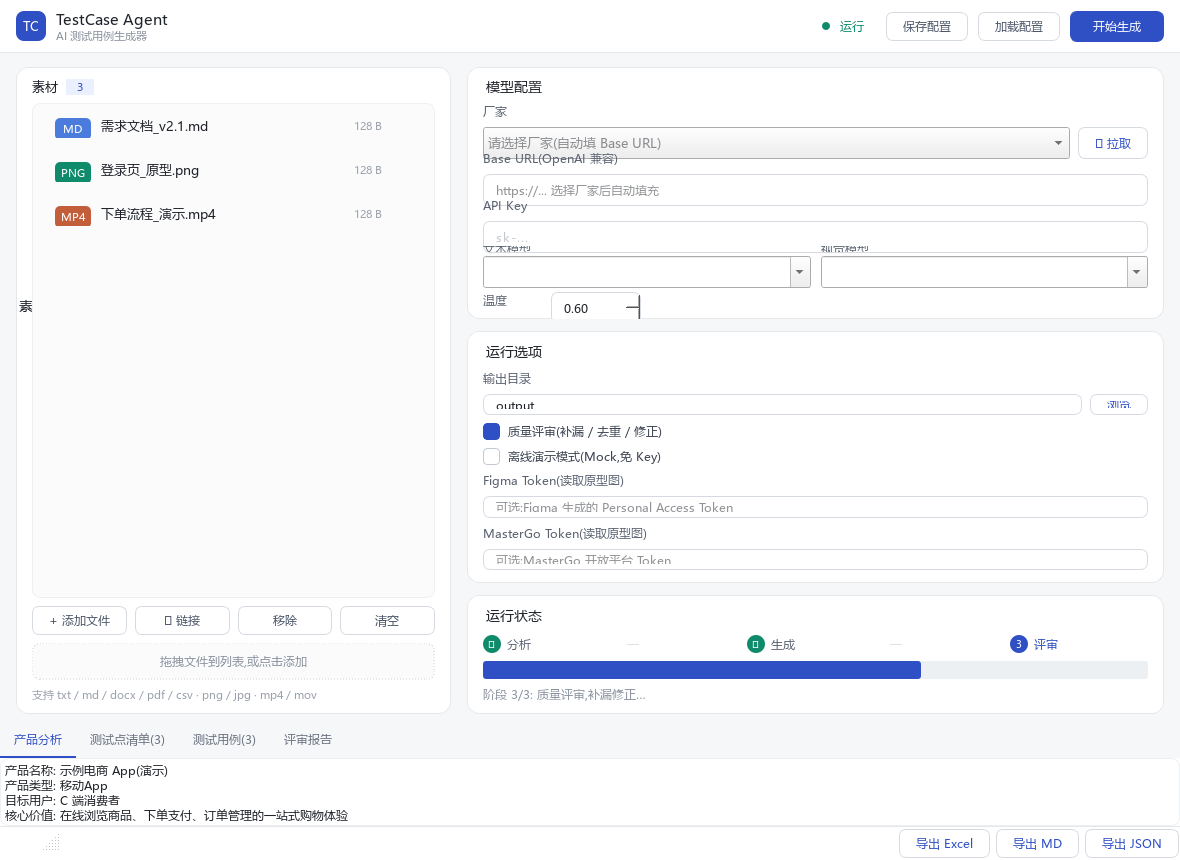
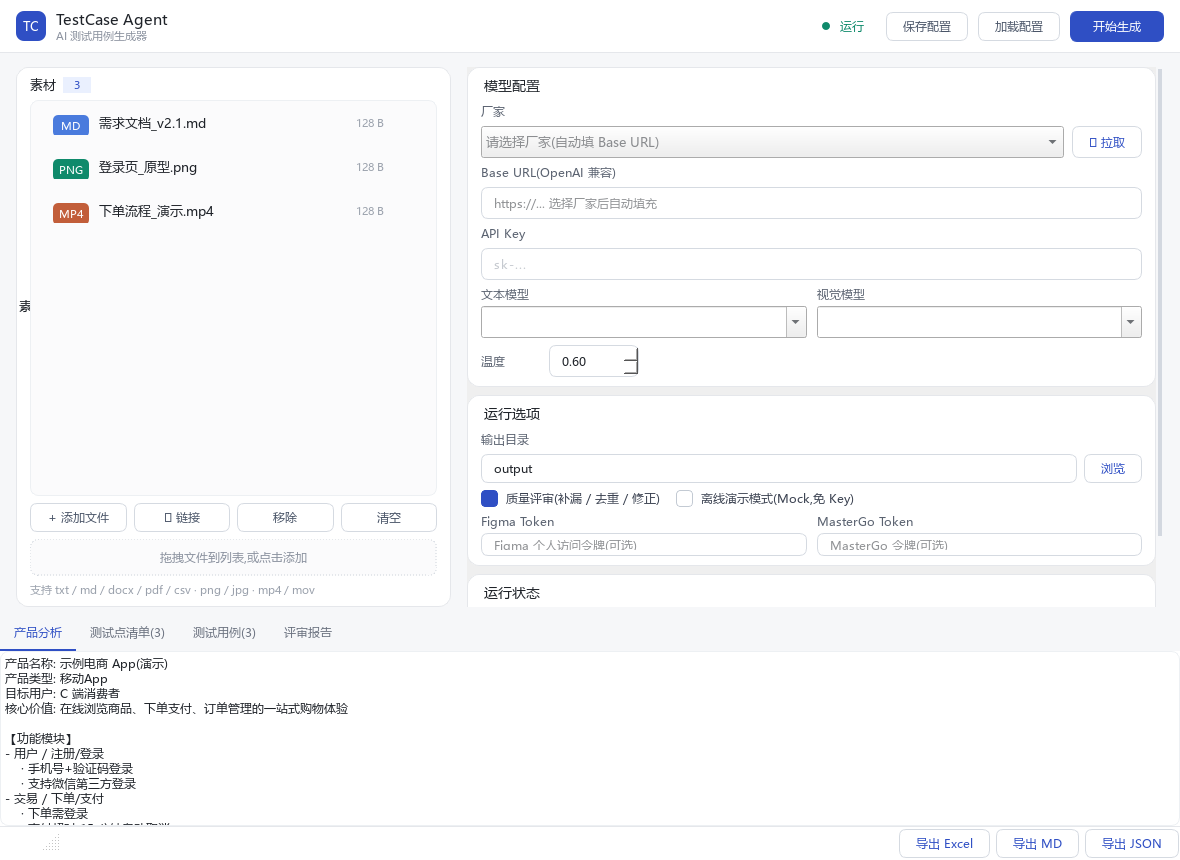
feat:优化右侧面板布局防遮挡
- 右列(模型配置/运行选项/运行状态)包裹 QScrollArea:内容超出时可滚动,任何屏幕尺寸不遮挡
- 布局紧凑化:质量评审/Mock 复选框并排;Figma/MasterGo Token 并排;温度与拉取提示合并一行
- 调整 body/tabs 高度权重(8:3),配置区优先占高;卡片 margins/spacing 微调
- 1320x920 默认窗口下右列全部可见,无滚动条;67 测试通过

diff --git a/testcase_agent/gui/app.py b/testcase_agent/gui/app.py
@@ -20,9 +20,10 @@ from PySide6.QtCore import QSize, Qt, Signal
 from PySide6.QtGui import QColor, QFont
 from PySide6.QtWidgets import (
     QAbstractItemView, QApplication, QCheckBox, QComboBox, QDoubleSpinBox, QFileDialog,
-    QHBoxLayout, QHeaderView, QInputDialog, QLabel, QLineEdit, QListWidget, QListWidgetItem,
-    QMainWindow, QMessageBox, QPlainTextEdit, QProgressBar, QPushButton, QStatusBar,
-    QTableWidget, QTableWidgetItem, QTabWidget, QVBoxLayout, QWidget,
+    QFrame, QHBoxLayout, QHeaderView, QInputDialog, QLabel, QLineEdit, QListWidget,
+    QListWidgetItem, QMainWindow, QMessageBox, QPlainTextEdit, QProgressBar, QPushButton,
+    QScrollArea, QStatusBar, QTableWidget, QTableWidgetItem, QTabWidget, QVBoxLayout,
+    QWidget,
 )
 
 # 国内主流 OpenAI 兼容厂家(联动 base_url / 文本模型 / 视觉模型)
@@ -271,8 +272,8 @@ def _card(title: str) -> tuple[QWidget, QVBoxLayout]:
     w = QWidget()
     w.setObjectName("Card")
     lay = QVBoxLayout(w)
-    lay.setContentsMargins(16, 12, 16, 12)
-    lay.setSpacing(8)
+    lay.setContentsMargins(14, 10, 14, 10)
+    lay.setSpacing(7)
     t = QLabel(title)
     t.setObjectName("CardTitle")
     t.setStyleSheet("font-size:14px;font-weight:600;color:#1F2329;margin-bottom:2px;")
@@ -314,8 +315,9 @@ class MainWindow(QMainWindow):
         body_lay.setSpacing(16)
         body_lay.addWidget(self._build_left_panel(), 5)
         body_lay.addWidget(self._build_right_panel(), 8)
-        root.addWidget(body, 4)
-        root.addWidget(self._build_tabs(), 5)
+        # 配置区(body)优先占高度,结果区(tabs)生成前较小
+        root.addWidget(body, 8)
+        root.addWidget(self._build_tabs(), 3)
         self.setStatusBar(QStatusBar())
 
         self.setStyleSheet(QSS)
@@ -414,10 +416,17 @@ class MainWindow(QMainWindow):
         return card
 
     def _build_right_panel(self) -> QWidget:
+        # 外层滚动容器:内容超出窗口高度时可滚动,保证任何屏幕尺寸都不遮挡
+        scroll = QScrollArea()
+        scroll.setWidgetResizable(True)
+        scroll.setFrameShape(QFrame.Shape.NoFrame)
+        scroll.setHorizontalScrollBarPolicy(Qt.ScrollBarPolicy.ScrollBarAlwaysOff)
+        scroll.setMinimumWidth(400)
+
         panel = QWidget()
         lay = QVBoxLayout(panel)
         lay.setContentsMargins(0, 0, 0, 0)
-        lay.setSpacing(12)
+        lay.setSpacing(8)
 
         # ---- 模型配置卡片(不内置任何 API 配置,全部由用户选择/填写) ----
         m_card, m_lay = _card("模型配置")
@@ -494,13 +503,14 @@ class MainWindow(QMainWindow):
         self._fetch_hint.setStyleSheet("color:#9AA1AC;font-size:11px;")
         self._fetch_hint.setWordWrap(True)
         self._fetch_hint.setMinimumWidth(0)
-        m_lay.addWidget(self._fetch_hint)
 
-        # 温度行
+        # 温度 + 拉取提示合并一行(节省垂直空间)
         temp_row = QHBoxLayout()
+        temp_row.setSpacing(8)
         temp_row.addWidget(_label("温度"))
         temp_row.addWidget(self._in_temp)
-        temp_row.addStretch(1)
+        temp_row.addSpacing(10)
+        temp_row.addWidget(self._fetch_hint, 1)
         m_lay.addLayout(temp_row)
         lay.addWidget(m_card)
 
@@ -519,20 +529,30 @@ class MainWindow(QMainWindow):
         self._chk_review = QCheckBox("质量评审(补漏 / 去重 / 修正)")
         self._chk_review.setChecked(True)
         self._chk_mock = QCheckBox("离线演示模式(Mock,免 Key)")
-        o_lay.addWidget(self._chk_review)
-        o_lay.addWidget(self._chk_mock)
+        # 复选框并排一行
+        chk_row = QHBoxLayout()
+        chk_row.setSpacing(16)
+        chk_row.addWidget(self._chk_review)
+        chk_row.addWidget(self._chk_mock)
+        chk_row.addStretch(1)
+        o_lay.addLayout(chk_row)
 
-        # 原型图平台 Token(可选,用于读取 Figma/MasterGo 链接截图)
+        # 原型图平台 Token(可选,并排一列,用于读取 Figma/MasterGo 链接截图)
         self._in_figma_token = QLineEdit()
-        self._in_figma_token.setPlaceholderText("可选:Figma 生成的 Personal Access Token")
+        self._in_figma_token.setPlaceholderText("Figma 个人访问令牌(可选)")
         self._in_figma_token.setEchoMode(QLineEdit.EchoMode.Password)
         self._in_mastergo_token = QLineEdit()
-        self._in_mastergo_token.setPlaceholderText("可选:MasterGo 开放平台 Token")
+        self._in_mastergo_token.setPlaceholderText("MasterGo 令牌(可选)")
         self._in_mastergo_token.setEchoMode(QLineEdit.EchoMode.Password)
-        o_lay.addWidget(_label("Figma Token(读取原型图)"))
-        o_lay.addWidget(self._in_figma_token)
-        o_lay.addWidget(_label("MasterGo Token(读取原型图)"))
-        o_lay.addWidget(self._in_mastergo_token)
+        tok_row = QHBoxLayout()
+        tok_row.setSpacing(10)
+        for lbl, w in (("Figma Token", self._in_figma_token), ("MasterGo Token", self._in_mastergo_token)):
+            col = QVBoxLayout()
+            col.setSpacing(4)
+            col.addWidget(_label(lbl))
+            col.addWidget(w)
+            tok_row.addLayout(col)
+        o_lay.addLayout(tok_row)
         lay.addWidget(o_card)
 
         # ---- 运行状态卡片 ----
@@ -550,7 +570,8 @@ class MainWindow(QMainWindow):
         lay.addWidget(s_card)
 
         lay.addStretch(1)
-        return panel
+        scroll.setWidget(panel)
+        return scroll
 
     def _build_tabs(self) -> QWidget:
         self.tabs = QTabWidget()
